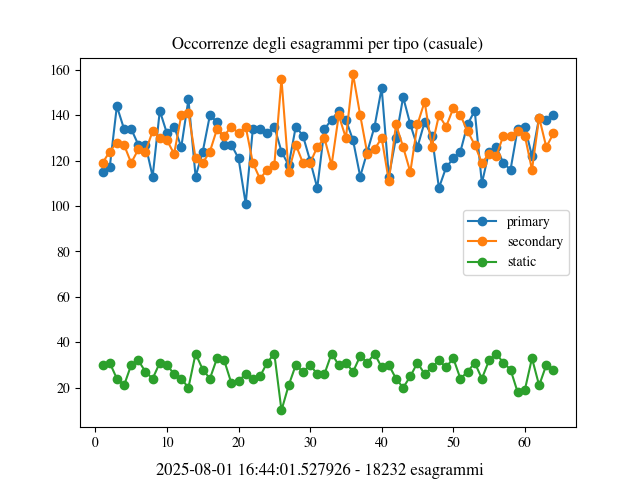
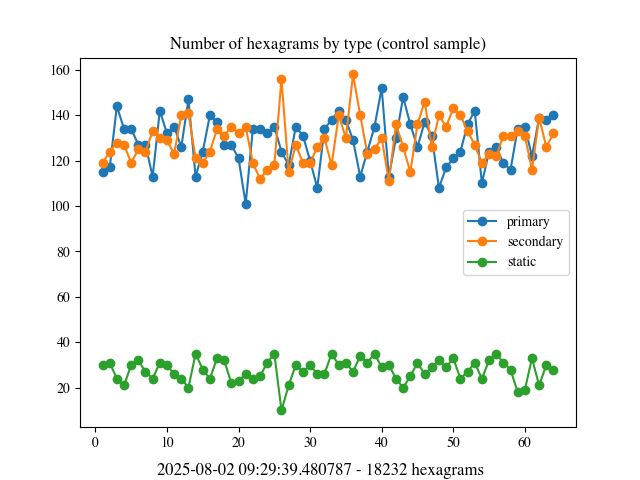
English translation

Changed region(s): [[0.25, 0.0625, 0.75, 0.125], [0.25, 0.9375, 0.75, 1.0]]

diff --git a/docs/print_plots.py b/docs/print_plots.py
@@ -5,41 +5,41 @@ import numpy as np
 
 plt.rcParams['font.family'] = 'Times'
 
-# rand_log = pd.read_csv('./data/rand.csv', sep=',')
-# # rand_log.set_index('time', inplace=True)
-# types = rand_log['type'].unique()
+rand_log = pd.read_csv('./data/rand.csv', sep=',')
+# rand_log.set_index('time', inplace=True)
+types = rand_log['type'].unique()
 
-# fig, ax = plt.subplots()
-# for type in types:
-#     df_type = rand_log[rand_log['type'] == type]
-#     counts = df_type['hex'].value_counts().sort_index()
-#     ax.plot(counts.index, counts.values, label=type, marker='o')
+fig, ax = plt.subplots()
+for type in types:
+    df_type = rand_log[rand_log['type'] == type]
+    counts = df_type['hex'].value_counts().sort_index()
+    ax.plot(counts.index, counts.values, label=type, marker='o')
 
-# # ax.set_xlabel('Esagrammi')
-# # ax.set_ylabel('Occorrenze')
-# ax.set_title('Occorrenze degli esagrammi per tipo (casuale)')
-# ax.legend()
-# plt.figtext(0.5, 0.01, f"{datetime.datetime.now()} - {len(rand_log['time'])} esagrammi", wrap=True, horizontalalignment='center', fontsize=12)
-# plt.savefig('./docs/rand_rect.png')
+# ax.set_xlabel('hexagrams')
+# ax.set_ylabel('quantity')
+ax.set_title('Number of hexagrams by type (control sample)')
+ax.legend()
+plt.figtext(0.5, 0.01, f"{datetime.datetime.now()} - {len(rand_log['time'])} hexagrams", wrap=True, horizontalalignment='center', fontsize=12)
+plt.savefig('./docs/rand_rect.png')
 
-# hex_values = range(1, 65)
-# data = []
-# for type in types:
-#     df_type = rand_log[rand_log['type'] == type]
-#     counts = [df_type[df_type['hex'] == hex_value].shape[0] for hex_value in hex_values]
-#     data.append(counts)
+hex_values = range(1, 65)
+data = []
+for type in types:
+    df_type = rand_log[rand_log['type'] == type]
+    counts = [df_type[df_type['hex'] == hex_value].shape[0] for hex_value in hex_values]
+    data.append(counts)
 
-# angles = np.linspace(0, 2*np.pi, len(hex_values), endpoint=False)
-# fig = plt.figure(figsize=(6, 6))
-# ax = fig.add_subplot(111, polar=True)
-# for i, counts in enumerate(data):
-#     ax.plot(angles, counts, 'o-', linewidth=2, label=types[i])
+angles = np.linspace(0, 2*np.pi, len(hex_values), endpoint=False)
+fig = plt.figure(figsize=(6, 6))
+ax = fig.add_subplot(111, polar=True)
+for i, counts in enumerate(data):
+    ax.plot(angles, counts, 'o-', linewidth=2, label=types[i])
     
-# ax.set_thetagrids(angles * 180/np.pi, hex_values)
-# ax.set_title('Occorrenze degli esagrammi per tipo (casuale)')
-# ax.legend(loc='upper right', bbox_to_anchor=(1.3, 1.1))
-# plt.figtext(0.5, 0.01, f"{datetime.datetime.now()} - {len(rand_log['time'])} esagrammi", wrap=True, horizontalalignment='center', fontsize=12)
-# plt.savefig('./docs/rand_radar.png')
+ax.set_thetagrids(angles * 180/np.pi, hex_values)
+ax.set_title('Number of hexagrams by type (control sample)')
+ax.legend(loc='upper right', bbox_to_anchor=(1.3, 1.1))
+plt.figtext(0.5, 0.01, f"{datetime.datetime.now()} - {len(rand_log['time'])} hexagrams", wrap=True, horizontalalignment='center', fontsize=12)
+plt.savefig('./docs/rand_radar.png')
 
 
 sig_log = pd.read_csv('./data/sig.csv', sep=',')
@@ -52,11 +52,11 @@ for type in types:
     counts = df_type['hex'].value_counts().sort_index()
     ax.plot(counts.index, counts.values, label=type, marker='o')
 
-# ax.set_xlabel('Esagrammi')
-# ax.set_ylabel('Occorrenze')
-ax.set_title('Occorrenze degli esagrammi per tipo (significativo)')
+# ax.set_xlabel('hexagrams')
+# ax.set_ylabel('quantity')
+ax.set_title('Number of hexagrams by type (meaningful sample)')
 ax.legend()
-plt.figtext(0.5, 0.01, f"{datetime.datetime.now()} - {len(sig_log['time'])} esagrammi", wrap=True, horizontalalignment='center', fontsize=12)
+plt.figtext(0.5, 0.01, f"{datetime.datetime.now()} - {len(sig_log['time'])} hexagrams", wrap=True, horizontalalignment='center', fontsize=12)
 plt.savefig('./docs/sig_rect.png')
 
 hex_values = range(1, 65)
@@ -73,7 +73,7 @@ for i, counts in enumerate(data):
     ax.plot(angles, counts, 'o-', linewidth=2, label=types[i])
 
 ax.set_thetagrids(angles * 180/np.pi, hex_values)
-ax.set_title('Occorrenze degli esagrammi per tipo (significativo)')
+ax.set_title('Number of hexagrams by type (meaningful sample)')
 ax.legend(loc='upper right', bbox_to_anchor=(1.3, 1.1))
-plt.figtext(0.5, 0.01, f"{datetime.datetime.now()} - {len(sig_log['time'])} esagrammi", wrap=True, horizontalalignment='center', fontsize=12)
+plt.figtext(0.5, 0.01, f"{datetime.datetime.now()} - {len(sig_log['time'])} hexagrams", wrap=True, horizontalalignment='center', fontsize=12)
 plt.savefig('./docs/sig_radar.png')

diff --git a/README.md b/README.md
@@ -1,8 +1,8 @@
 # I Ching Log
 
-Questo è un test per capire se l'I Ching è completamente casuale o se le letture sono in qualche modo significative.
+This is an experiment to understand whether I Ching's responses are completely random or there's something significant behind them.
 
-Il campione di controllo consiste in 10.000 letture dell'I Ching eseguite con [`iching-cli`](https://github.com/cantaprete/iching-cli) con il comando:
+The control sample consists in 10,000 consultations done with [`iching-cli`](https://github.com/cantaprete/iching-cli):
 
 ```sh
 echo "time,hex,type" > rand.csv
@@ -13,20 +13,26 @@ do
 done
 ```
 
-Il risultato è (prevedibilmente) casuale:
+It resulted in 18,232 hexagrams. There are, of course, as many primary hexagrams as secondary (8,132), and roughly 11% of the first two types combined for static hexagrams.[^1]
+
+When plotted, it's clear that the results are randomic:
 
 ![img](./docs/rand_rect.png)
 ![img](./docs/rand_radar.png)
 
-Questi, invece, sono i medesimi grafici utilizzando letture significative, ossia precedute dal desiderio di interrogare l'I Ching su una specifica domanda:
+I defined those as control samples because you're supposed to consult the I Ching with a meaningful question.  While the process uses a randomic technique, it's the meaning that should make the difference.
+
+I'm in the process of logging all meaningful consultations of the I Ching, and here is the data plotted in the same way as the sample data:
 
 ![img](./docs/sig_rect.png)
 ![img](./docs/sig_radar.png)
 
-Al momento i dati sono troppo pochi per trarre qualsiasi conclusione sensata.
+Of course, right now I have too little data to get to a conclusion, but I expect one of these will happen:
 
-Ciò che mi aspetto è uno di questi tre casi:
+1. The plots **won't show** a roughly random distribution between the three types of hexagrams.  Some hexagrams or areas will have more point then others.
 
-1. Indipendentemente dal numero di letture, i grafici non mostrano un andamento grossomodo casuale ma mostrano invece degli sbilanciamenti verso alcuni esagrammi, sia questo in generale o per un tipo specifico.
-2. Con l'approssimarsi di un numero sufficiente di letture, l'andamento è nel complesso grossomodo casuale. Nonostante ciò, se analizzato in blocchi determinati da periodi di tempo variabili ma significativi mostra sbilanciamenti verso alcuni esagrammi, sia questo in generale o per un tipo specifico.  Questo si spiegherebbe considerando che nel lungo periodo le questioni sottoposte all'I Ching variano, e con ciò la varietà delle risposte; ma presi in periodi significativi (ossia in periodi nei quali la maggior parte delle domande verteva sui medesimi quesiti), mostrano una preponderanza di certe risposte rispetto alle altre.
-3. Grossomodo casuale sia nella totalità sia in sottoinsiemi temporali significativi.
+2. The plots **will show** a roughly random distribution between the three types of hexagrams, but when taken in time-definied subset, some hexagrams or areas will have more point then others.  This could be explained by the fact that different times have a predominant share of different topic, so while the distribution of the whole set is random, the one of each subset is not.
+
+3. The plots **will show** a roughly random distribution between the three types of hexagrams, either taken as a whole or by subsets.
+
+[^1]: The I Ching can be consulted in different ways, but all of them ends up giving six lines. Each can either be moving or static. "Moving" means a line that starts as yang (solid, ⚊) and ends up yin (broken, ⚋) or viceversa, while a static lines doesn't change. If you have moving lines, you end up with two hexagrams: a primary with every line before they changed, and a secondary with them changed.
